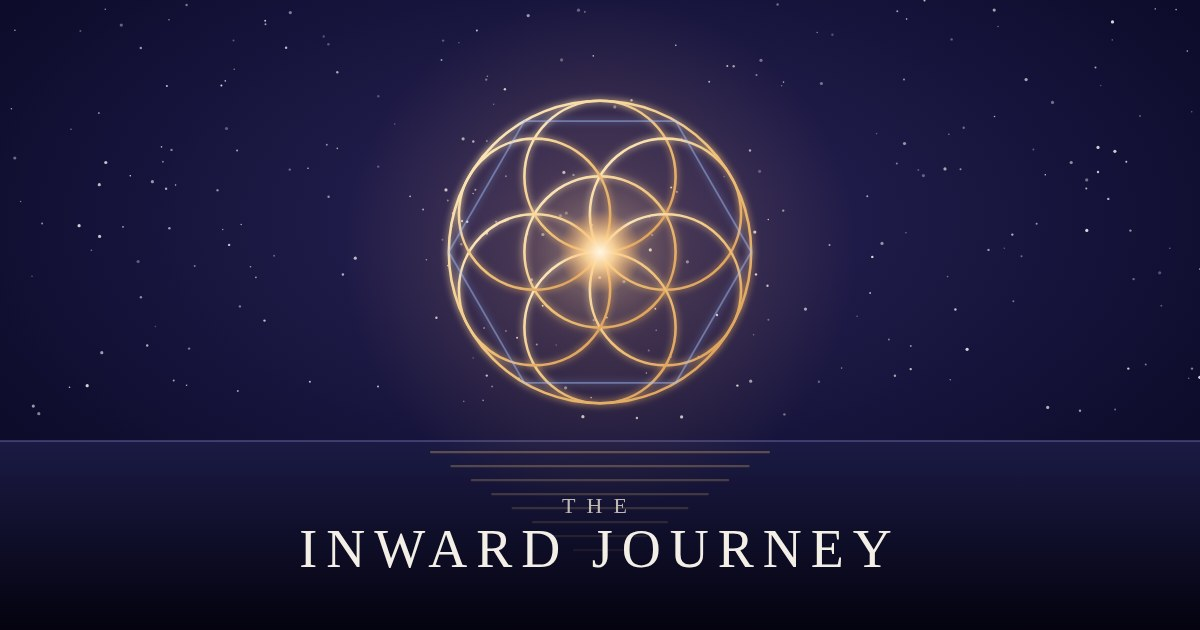
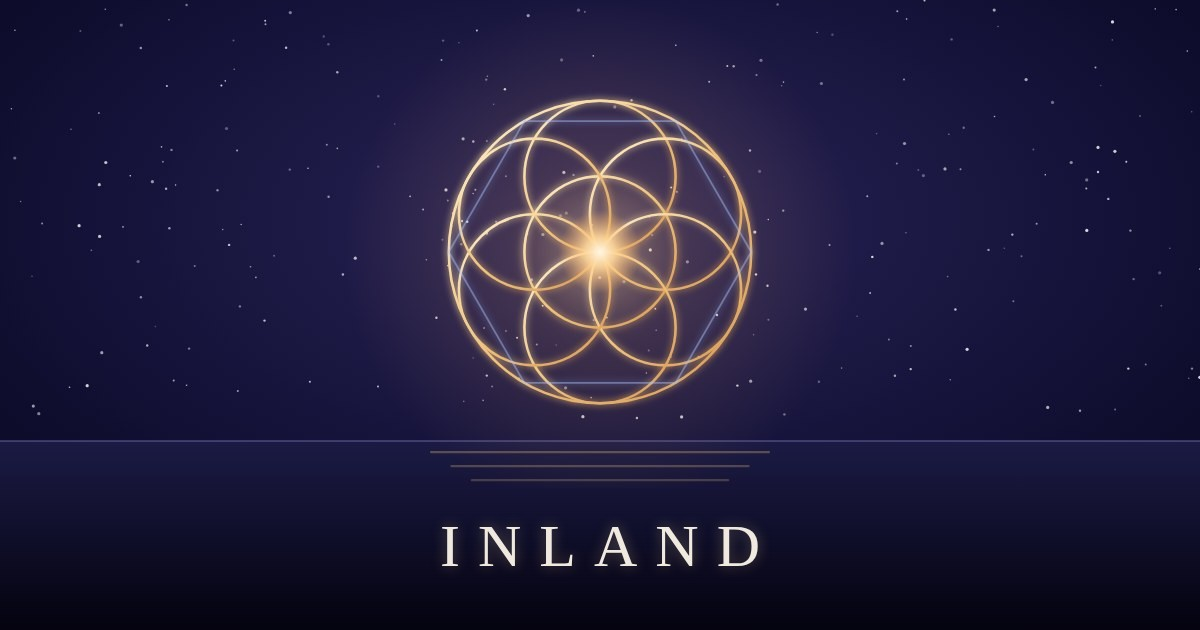
Rename the game to Inland
Every name a player sees (page title, Home Screen name and manifest, share tags
and image, the title over the water, the welcome, the lock screen, film files,
the heart's shared prompt). Storage keys and cache names keep their old prefix
so no save, setting or offline download is lost.

Claude-Session: https://claude.ai/code/session_01TgQcZTYWsqeRtjtnFw95hb

Changed region(s): [[0.2467, 0.7841, 0.74, 0.9048]]

diff --git a/index.html b/index.html
@@ -7,20 +7,20 @@
 <meta name="theme-color" content="#0b0a1c">
 <meta name="apple-mobile-web-app-capable" content="yes">
 <meta name="apple-mobile-web-app-status-bar-style" content="black-translucent">
-<title>The Inward Journey</title>
+<title>Inland</title>
 <meta name="description" content="A contemplative world of night and light to wander: the archetypes of Mind, Body and Spirit.">
-<meta name="apple-mobile-web-app-title" content="Inward Journey">
+<meta name="apple-mobile-web-app-title" content="Inland">
 <link rel="icon" type="image/png" href="./favicon.png">
 <link rel="apple-touch-icon" href="./apple-touch-icon.png">
 <!-- the link when shared (absolute URLs, as messengers require) -->
 <meta property="og:type" content="website">
-<meta property="og:title" content="The Inward Journey">
+<meta property="og:title" content="Inland">
 <meta property="og:description" content="A contemplative world of night and light to wander: the archetypes of Mind, Body and Spirit.">
 <meta property="og:url" content="https://vy6ycr7tcc-debug.github.io/Animation/">
 <meta property="og:image" content="https://vy6ycr7tcc-debug.github.io/Animation/og.jpg">
 <meta property="og:image:width" content="1200">
 <meta property="og:image:height" content="630">
-<meta property="og:image:alt" content="A seed of golden light over night water: The Inward Journey">
+<meta property="og:image:alt" content="A seed of golden light over night water: Inland">
 <meta name="twitter:card" content="summary_large_image">
 <meta name="twitter:image" content="https://vy6ycr7tcc-debug.github.io/Animation/og.jpg">
 <link rel="stylesheet" href="./src/style.css">
@@ -63,9 +63,9 @@
 <div id="surface" aria-hidden="true"></div>
 
 <div id="title" aria-hidden="true">
-  <h1><small>The</small> Inward Journey</h1>
+  <h1>Inland</h1>
   <div id="welcome" hidden>
-    <p class="w-copy">Inward Journey is not a game to win. It is a place to wander, across still water, through seven gates, toward the light. There is nothing to collect and nowhere to be. Keep it open beside you while you work, or lie down and let it hold you. Move gently. Listen. Breathe.</p>
+    <p class="w-copy">Inland is not a game to win. It is a place to wander, across still water, through seven gates, toward the light. There is nothing to collect and nowhere to be. Keep it open beside you while you work, or lie down and let it hold you. Move gently. Listen. Breathe.</p>
     <p class="w-hint"></p>
   </div>
   <p id="touch">Touch the water to begin</p>
@@ -197,7 +197,7 @@
 </div>
 <div id="welcome-again" role="dialog" aria-labelledby="welcome-title" hidden>
   <p id="welcome-title">Welcome</p>
-  <p>Inward Journey is not a game to win. It is a place to wander, across still water, through seven gates, toward the light. There is nothing to collect and nowhere to be. Keep it open beside you while you work, or lie down and let it hold you. Move gently. Listen. Breathe.</p>
+  <p>Inland is not a game to win. It is a place to wander, across still water, through seven gates, toward the light. There is nothing to collect and nowhere to be. Keep it open beside you while you work, or lie down and let it hold you. Move gently. Listen. Breathe.</p>
   <p class="note w-hint"></p>
   <button id="welcome-close" type="button">Close</button>
 </div>

diff --git a/src/ui/anonymise.ts b/src/ui/anonymise.ts
@@ -108,7 +108,7 @@ export function heartPrompt(notes: HeartNote[]): { text: string; names: number }
     const where = n.scene ? ` · written at "${n.scene}" (a place in a contemplative game)` : "";
     return `Entry ${i + 1} · day ${day}${where}\n${an.scrub(n.text.trim())}`;
   });
-  const text = `I keep a private journal of the heart while playing Inward Journey, a contemplative game about the 22 archetypes of mind, body and spirit. Below are my entries, oldest first. They have been anonymised: names and places appear as [name A], [name B]…; contact details, numbers and dates are removed; "day N" counts days since my first entry. Some entries are questions I asked the game's oracle, with its reflection.
+  const text = `I keep a private journal of the heart while playing Inland, a contemplative game about the 22 archetypes of mind, body and spirit. Below are my entries, oldest first. They have been anonymised: names and places appear as [name A], [name B]…; contact details, numbers and dates are removed; "day N" counts days since my first entry. Some entries are questions I asked the game's oracle, with its reflection.
 
 Please read them as a whole and give me a gentle overview of my journey:
 1. The main themes and what seems to matter most to me.

diff --git a/vite.config.ts b/vite.config.ts
@@ -31,8 +31,8 @@ export default defineConfig({
         globIgnores: ['audio/**', 'models/**', 'textures/**', 'assets.json']
       },
       manifest: {
-        name: "The Inward Journey",
-        short_name: "Inward Journey",
+        name: "Inland",
+        short_name: "Inland",
         description: "A contemplative third-person exploration game about Mind, Body and Spirit.",
         theme_color: "#0b0a1c",
         background_color: "#0b0a1c",

diff --git a/src/debug/film.ts b/src/debug/film.ts
@@ -535,7 +535,7 @@ async function session(host: FilmHost, ui: Screen, clips: Clip[], total: number,
     if (n > 0) await betweenClips(host, wait, settle);
     status.clip = clip.id;
     status.progress = `${doneBefore.length + n + 1} of ${total}`;
-    const prefix = many ? "" : "inward-journey-";
+    const prefix = many ? "" : "inland-";
     const base = many ? clip.id : `${prefix}${q.get("film")}`;
     let out: Captured;
     if (FAST) {

diff --git a/src/ui/transcriptPlayer.ts b/src/ui/transcriptPlayer.ts
@@ -159,7 +159,7 @@ export class TranscriptPlayer {
     this.audio.duck(true);
     const ms = navigator.mediaSession;
     if (ms && "MediaMetadata" in window) {
-      ms.metadata = new MediaMetadata({ title: n.title, artist: "Inward Journey", album: "Inward Journey" });
+      ms.metadata = new MediaMetadata({ title: n.title, artist: "Inland", album: "Inland" });
     }
     this.onChange?.(n.id);
   }

diff --git a/src/main.ts b/src/main.ts
@@ -1,4 +1,4 @@
-/* The Inward Journey — an open world of night and light.
+/* Inland — an open world of night and light.
    Wander anywhere. The land answers as you pass: grass brightens along your path, flowers
    bloom and chime, lanterns kindle, and the old
    forms (beam, veil, garden, throne, arch, rings) stand as landmarks to wander toward.

diff --git a/public/film.html b/public/film.html
@@ -1,6 +1,6 @@
 <!doctype html>
 <html lang="en"><head><meta charset="utf-8"><meta name="viewport" content="width=device-width,initial-scale=1">
-<title>Inward Journey · Film</title>
+<title>Inland · Film</title>
 <style>
 :root{color-scheme:dark}
 body{margin:0;background:#05070d;color:#d9dce6;font:16px/1.5 system-ui,sans-serif}

diff --git a/CLAUDE.md b/CLAUDE.md
@@ -1,4 +1,4 @@
-# Inward Journey (web 3D game)
+# Inland (web 3D game; formerly Inward Journey)
 
 ## What this is
 A contemplative third-person exploration game for Samuel about the archetypes of Mind, Body and Spirit.
@@ -1202,6 +1202,7 @@ Samuel works mainly from an **iPhone**. Mobile Safari performance and audio are 
   - Still: `?shot=meadow&webgl&sit=<numeral>[&feel=<word>]`. Checked against the live worker: station mode with the lens answers.
 - 2026-10-16: at an archetype you type to go deeper (the owner: "instead of the generic share feelings options, you type"). Supersedes the feeling buttons in the entry above. The seated panel's second section is "Go deeper": one line to write in ("Ask The Empress to go deeper…") and a ✧ to send (or Enter). What is written opens the oracle and is asked at once through that archetype's lens (station mode, `archetypeLens`; its hidden line now says the person asks to go deeper), and the exchange is kept in My Heart. Still: `?shot=meadow&webgl&sit=<numeral>[&ask=<text>]`.
 - 2026-10-16: "Go deeper" at the temple's shrines too (the owner). The shrine panel (Be with it; Who are you? · Its teaching · Its practice) has the same line and ✧ under its buttons (`deeperField` in `main.ts`, shared with the world's seated panel), asking the oracle through that shrine's archetype; the panel rests while the oracle is open. Not during the guided tour (its stops show no shrine panel). Still: `?shot=temple-shrine-<i>&live=3&inward=0[&ask=…]`.
+- 2026-10-16: the game is renamed Inland (the owner). Everywhere a player sees the name: the page title, the Home Screen name and the manifest (`vite.config.ts`), the share tags and the share image (`public/og.jpg`, its title redrawn as "INLAND"), the title over the water, the welcome's words ("Inland is not a game to win…"), the lock screen's artist and album, the film page, film files (`inland-<tour>`), and the heart's shared prompt. Storage keys and cache names keep `inward-journey` (renaming them would lose every save, setting and offline download). The Home Screen icon has no words, so it is unchanged; a phone with the game already on its Home Screen keeps the old name under the icon until it is added again.
 - 2026-10-09: auto jump (the owner: "can you add auto jump?"; read as Minecraft's: walking into a ledge too tall to step over hops up it). `Controller.autoHop` (`player/controller.ts`): on foot, pressing on (stick over 0.4), held up (moved under 45% of intended, so slopes, which are walked up, never trigger it), with a top just ahead that lies a step (0.45 m) to a hop's reach (apex ~1 m, less 0.15) above the feet, it jumps; at most once every 0.5 s. Works for any solid mesh (`solidity.floor`) and the land. ⋮ → "Auto jump: hop up ledges you walk into", on by default, saved (`inward-journey:autojump`). Tested headless: a 0.78 m block is hopped and crossed with it on, and blocks the walk with it off.
 - 2026-10-07: the map's list redone (master prompt 2D: "unnavigable as content grows"). Under the map: "⌂ The shore" always first, then one row of tabs, by kind: Monuments (the vision of creation, the temple and its tour, the five monuments), Ancient (the ancient worlds by era, oldest first: Mu and Atlantis, legendary, beneath the water; Göbekli Tepe, c. 9500 BCE; the pyramid, Egypt and the Duat beneath; the drowned Maya city; Nan Madol, Pohnpei, c. 1180–1628), Lessons (the tree of life, the five lessons, the three visions), Archetypes (all 22 in one tab under the Mind, the Body, the Spirit, the Choice), Deep (the other ruins, the way to the deep archive), Tours. Every name says which way it lies and how far from where you stand (`NE · 1.2 km`); "in the deep" where you wake on the water above. Any destination is two taps: its tab, its name. Tap targets 44 px. A place's tab, era note and order are `Place.section`, `note`, `order` (`ui/map.ts`); archetypes and the deep fall into theirs by group.
 - 2026-10-07: the ruins made new (master prompt 2C; the visual Bible's New Age, "Nehemiah: the glorious ruins made new, the new earth"; `scenes/afterVeil/ruins.ts`). The forest path of the world after the veil opens into the clearing, and there stands a court of honey sandstone in ruins: a hall's front (two storeys, arched doors, windows) with its returns, an arcade of five arches closing the far side, low garden walls round a carved basin on a round plinth. Their lower courses stand, the rest lies in the grass. As beat 3 is spoken (89.7 s, its own progress) the court is made new: a scaffold of light draws the finished walls and arches in thin gold; stone by stone, bottom up, each block lifts from where it lay, glowing beneath, turns and settles into its course; the basin rises from the turf; the scaffold fades as the walls stand; the lawn greens, the clipped shrubs swell and open white blossoms, flowers open across the grass, wisteria lengthens down from the hall and the arcade in white and lavender; the clearing's haze thins; last a wave of warm light passes through every stone. Once told it stays made new. Walls (between their doors), the basin are solid; shrubs keep off the way. The view holds the court's heart while it is told. The clearing's threads of light stay low and clear of the court. Beat 4's newcomers no longer sit about (the owner: "random sitters"): they stand braced at the treeline, and once their line is spoken their armour's shards fall away and fade. Still frames: `?shot=veil-3&rebuild=0…1` (the rebuilding held there), `&live=8` for the game's own framing.

diff --git a/docs/film-mode.md b/docs/film-mode.md
@@ -16,7 +16,7 @@ Open a URL, walk away, come back to a video file with the tour's picture and sou
 ```
 
 In real time the file is an `.mp4` (H.264, made by the computer's own video hardware, so recording barely slows the game) where the browser can, else a `.webm`. The game wakes at the shore (the device's save is neither read nor written), plays the tour with
-every control, label and word hidden, and offers `inward-journey-<tour>.webm` at the end, with its
+every control, label and word hidden, and offers `inland-<tour>.webm` at the end, with its
 size. If the browser won't let sound start by itself it shows one "Begin filming" button first.
 Keep the tab in front while it records. The REC dot is DOM, so it is never in the picture.
 
@@ -88,7 +88,7 @@ water bed and its ducking, the master level, all on the audio clock. That is the
 water**. The generated layer (modal pad, bowls, chimes, one-shots) is made live from random choices
 and is **not** in a fast capture; use real time for the full mix.
 
-Alongside the video comes `inward-journey-<tour>.timeline.json`: fps, frame count, size, seed and
+Alongside the video comes `inland-<tour>.timeline.json`: fps, frame count, size, seed and
 every audio event with the frame it fires on.
 
 Without WebCodecs (Firefox, Safari) a zip comes instead: `frames/f000000.jpg…`, `timeline.json` and
